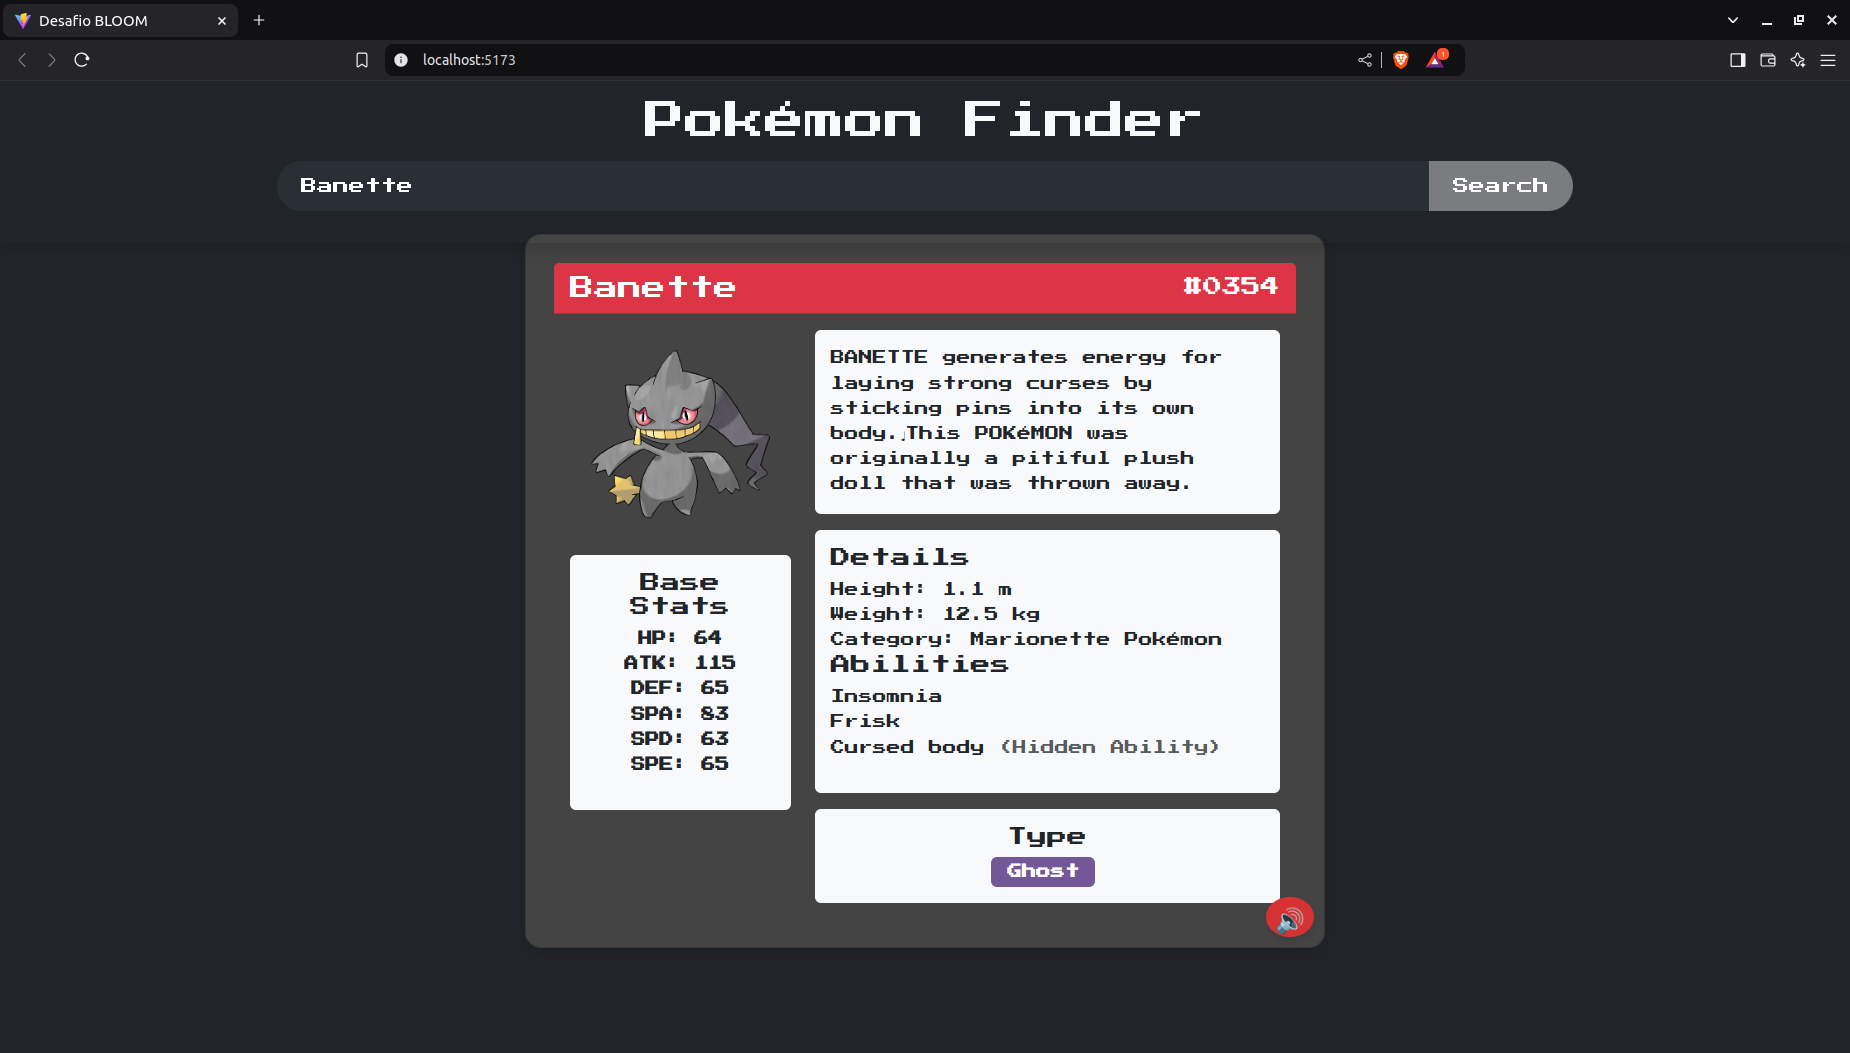
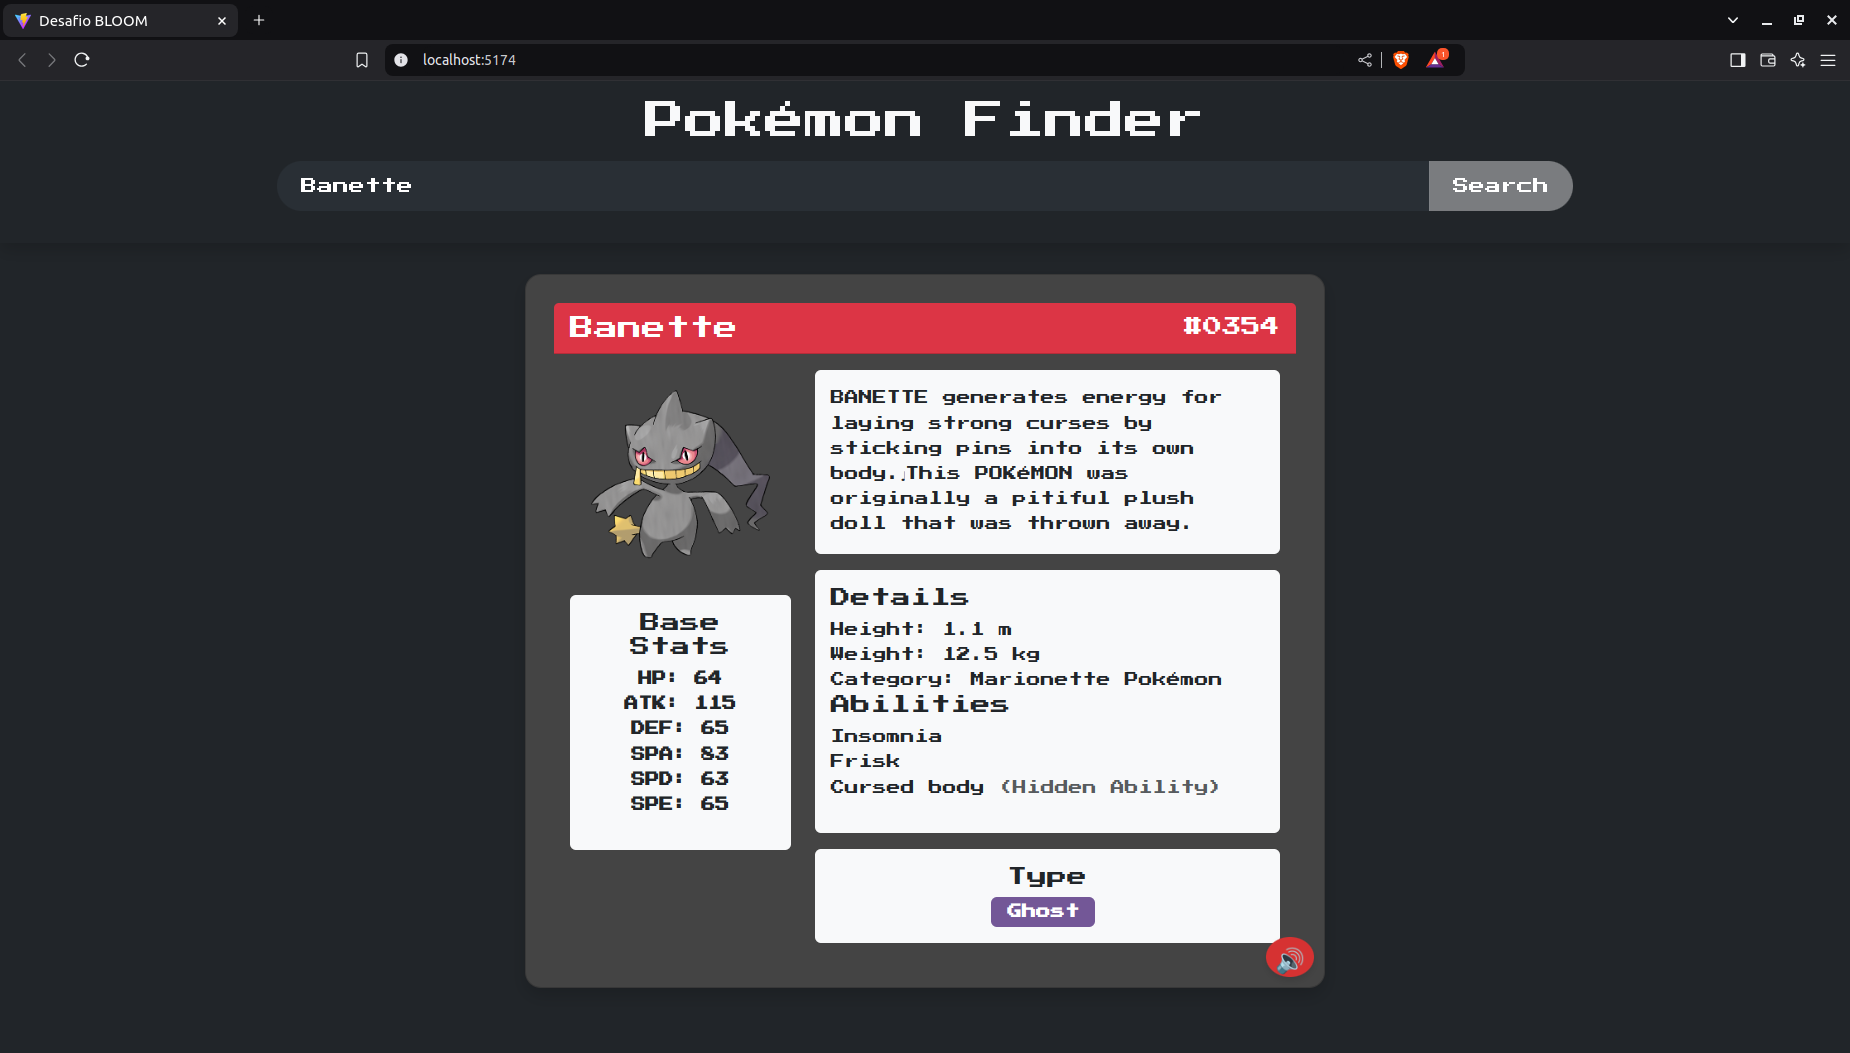
FIX(app.css): fixing max margin top for pokemon card

Changed region(s): [[0.2773, 0.2127, 0.7395, 0.9421]]

diff --git a/src/styles/App.css b/src/styles/App.css
@@ -16,7 +16,7 @@ body {
 
 @media (max-width: 576px) {
   body {
-    padding-top: 300px;
+    padding-top: 20rem;
   }
 }
 
@@ -26,7 +26,7 @@ body {
   color: #fff;
   border-radius: 8px;
   box-shadow: 0 4px 6px rgba(0, 0, 0, 0.1);
-  margin-top: 12rem;
+  margin-top: 8rem;
 }
 
 
